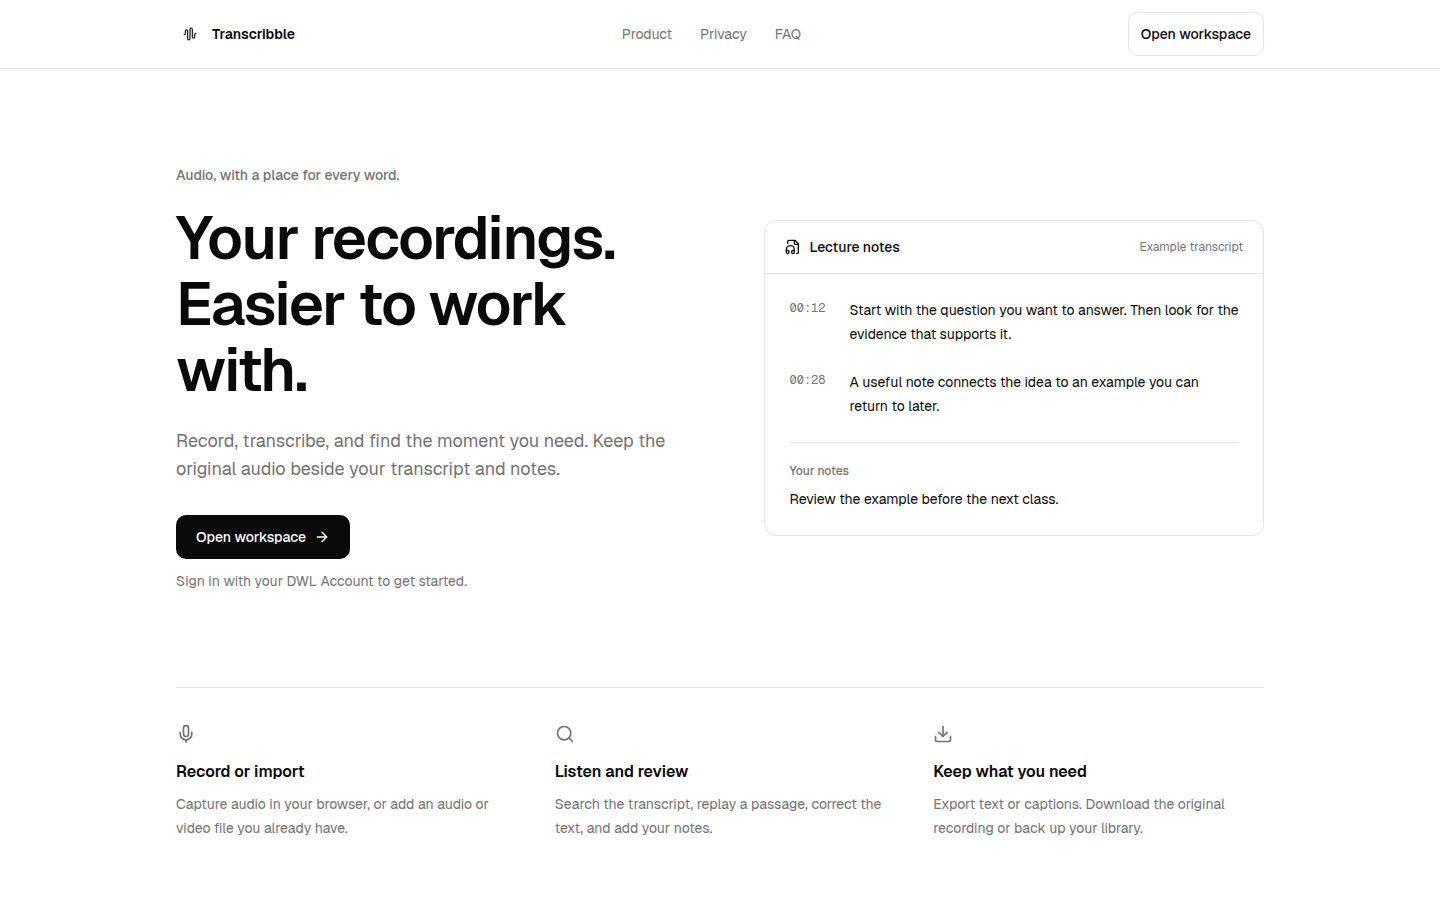
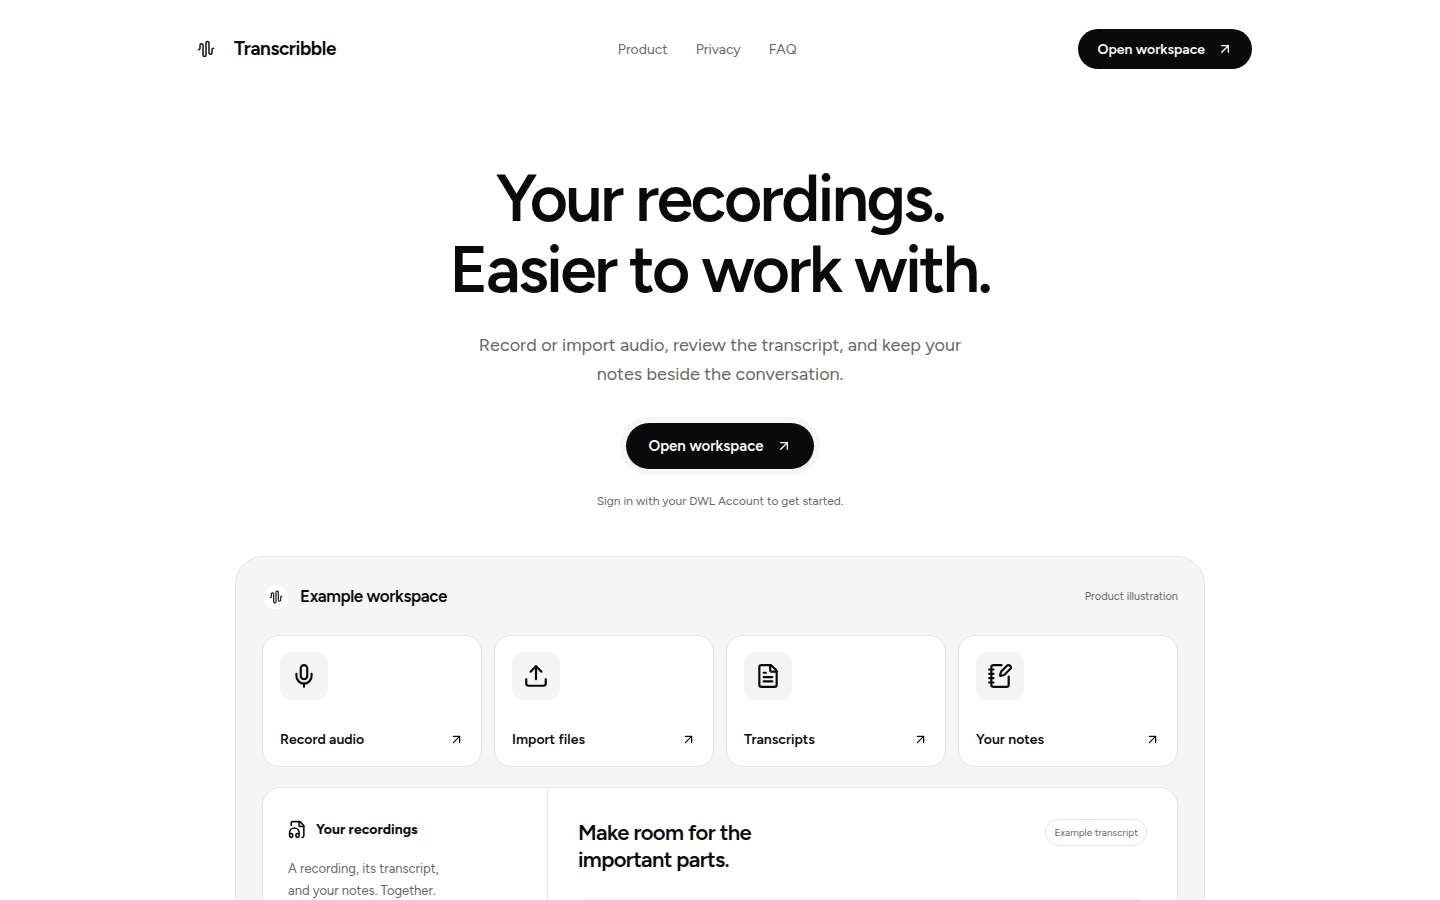
Publish public docs

diff --git a/product-guide.md b/product-guide.md
@@ -1,5 +1,9 @@
 # User guide
 
+## Open the workspace
+
+Choose **Open workspace** on the homepage, or use its **Record audio**, **Import files**, **Transcripts**, and **Your notes** shortcuts. Sign in with your DWL Account when prompted. The homepage workspace image is an illustration; it does not add a recording to your library.
+
 ## Record or import
 
 Open the workspace and choose **New > Record audio** or **New > Import audio**. Review any file or device limits shown before starting. Microphone recording requires your permission.
@@ -10,9 +14,15 @@ Supported imports include MP3, MP4, M4A, WAV, MOV, OGG, WebM, FLAC, and AAC. Sup
 
 Listen alongside the transcript and correct words as needed. Add notes, use folders to organize recordings, and open the recording's Details or Export panel when needed. You can add speaker labels manually; automatic speaker identification is unavailable.
 
-Live dictation is a draft. Review the finished transcript before quoting, sharing, or relying on it.
+Use **Ready transcripts** to find recordings ready for review. **Your notes** opens the notes panel for an available transcript; if you have none yet, record or import audio first.
+
+Transcription can show draft text while processing. Wait for it to finish, then review the result. Live dictation is a draft. Review the finished transcript before quoting, sharing, or relying on it.
 
 If transcription cannot finish, keep the original recording. Use **Export** to download the source or create a backup, and try a supported device when convenient.
+
+## Appearance
+
+Transcribble follows your device's light or dark appearance by default. Your saved appearance choice also applies to the homepage.
 
 ## Save across devices
 

diff --git a/setup.md b/setup.md
@@ -1,10 +1,12 @@
 # Quick start
 
-1. Open [Transcribble](https://transcribble.dylanwlim.com) in a current browser and sign in with your DWL Account.
+1. Open [Transcribble](https://transcribble.dylanwlim.com) in a current browser, choose **Open workspace**, and sign in with your DWL Account.
 2. In **Settings > Help & troubleshooting**, choose **Test Transcribble on this device** to try the sample.
 3. Choose **New > Record audio** or **New > Import audio**. Allow microphone access if you are recording.
 4. Play the recording, review the transcript, and correct any mistakes.
 5. Open **Export** to save your text, captions, or a recording backup.
+
+The homepage also offers **Record audio**, **Import files**, **Transcripts**, and **Your notes** shortcuts. They take you to the matching workspace view after sign-in. Opening the recorder does not start microphone capture; start recording when you are ready.
 
 Keep an internet connection available for sign-in and initial setup. You also need enough free space on your device. Imports do not require microphone permission.
 

diff --git a/README.md b/README.md
@@ -16,7 +16,7 @@ Record, transcribe, and find the moment you need. Keep your audio, transcript, a
 - Export text, captions, or a recording backup.
 - Enable optional account saving to use saved work on another device.
 
-Sign in with your DWL Account to open the workspace. Review transcripts for accuracy and keep a backup of important recordings.
+Choose **Open workspace**, or start with the homepage's recording, import, transcript, or notes shortcuts. Sign in with your DWL Account to open the workspace. The homepage recording is an illustration, not a saved project. Review transcripts for accuracy and keep a backup of important recordings.
 
 ## Guides and support
 

diff --git a/faq.md b/faq.md
@@ -4,6 +4,10 @@
 
 Yes. Sign in with your DWL Account to open the workspace.
 
+## Why does the homepage recording not appear in my library?
+
+The homepage shows an illustrative transcript and notes, not a saved recording. Record or import your own audio in the workspace.
+
 ## Does signing in upload my recordings?
 
 No. Account saving requires your permission in each browser. Check the saving status to see which items are available on another device.
